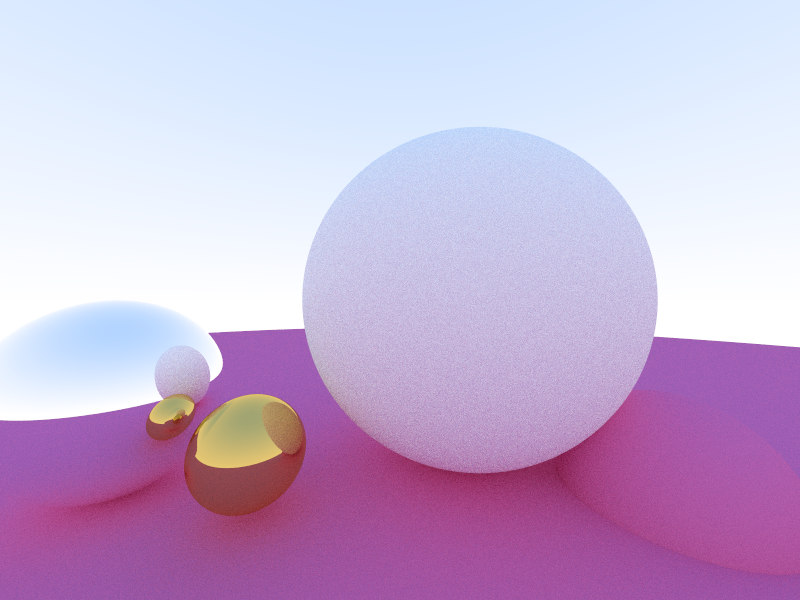
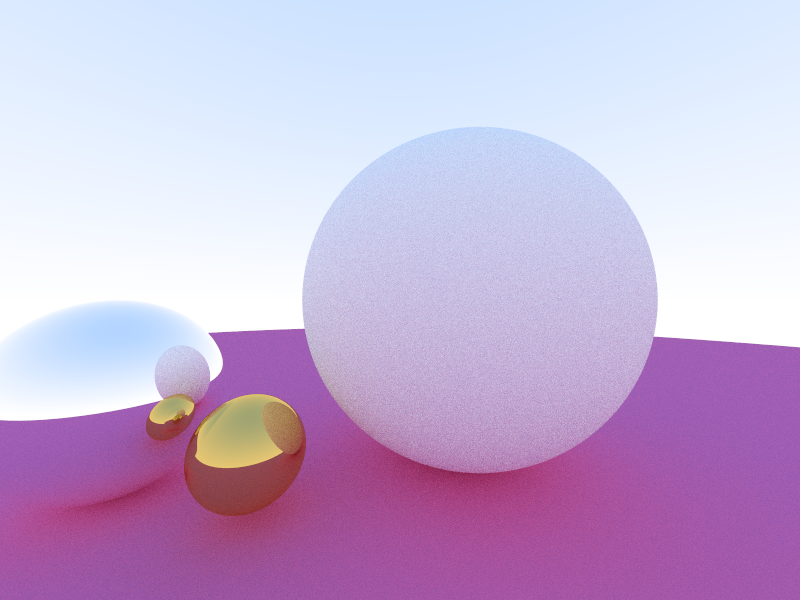
added multithreading

Changed region(s): [[0.625, 0.66, 0.8125, 0.9], [0.875, 0.93, 1.0, 0.96], [0.8125, 0.9, 0.875, 0.93]]

diff --git a/src/main.rs b/src/main.rs
@@ -1,10 +1,15 @@
-use material::{Lambertian, Metalic};
+use std::sync::Arc;
+use std::time::Instant;
+
+use material::{Lambertian, Metalic, Material};
 use rand::prelude::*;
 
 use cgmath::{Vector3, Vector2, Point3, InnerSpace, vec3, EuclideanSpace, Zero, vec2};
 use hittable::{Sphere, HittableList};
 use image::{ RgbImage, ImageBuffer, Rgb };
 use ray::Ray;
+use rayon::prelude::IntoParallelIterator;
+use rayon::prelude::*;
 use types::Float;
 
 mod types;
@@ -22,28 +27,37 @@ const MAX_BOUNCES: usize = 50;
 fn main() {
     // let img: RgbImage = ImageBuffer::new(WIDTH, HEIGHT);
     
-    let white_base = Lambertian::new((1.0, 1.0, 1.0));
-    let red_base = Lambertian::new((0.8, 0.2, 0.5));
+    let mut vector: Vec<Arc<dyn Material + Send + Sync>> = Vec::new();
     
-    let metal = Metalic::new((1.0, 1.0, 1.0));
-    let metal_gold = Metalic::new((0.8, 0.6, 0.2));
+    let white_base = Arc::new(Lambertian::new((1.0, 1.0, 1.0)));
+    vector.push(white_base);
+    let red_base = Arc::new(Lambertian::new((0.8, 0.2, 0.5)));
+    vector.push(red_base);
+    
+    let metal = Arc::new(Metalic::new((1.0, 1.0, 1.0)));
+    vector.push(metal);
+    let metal_gold = Arc::new(Metalic::new((0.8, 0.6, 0.2)));
+    vector.push(metal_gold);
     
     let mut list = HittableList::new();
-    list.add(Sphere::new((0.2, 0.0, -1.0), 0.5, &white_base));
-    list.add(Sphere::new((-0.75, -0.25, -0.8), 0.25, &metal));
-    list.add(Sphere::new((-0.35, -0.35, -0.7), 0.125, &metal_gold));
-    list.add(Sphere::new((0.7, -0.5, -0.8), 0.25, &red_base));
+    list.add(Arc::new(Sphere::new((0.2, 0.0, -1.0), 0.5, &vector[0])));
+    list.add(Arc::new(Sphere::new((-0.75, -0.25, -0.8), 0.25, &vector[2])));
+    list.add(Arc::new(Sphere::new((-0.35, -0.35, -0.7), 0.125, &vector[3])));
+    // list.add(Sphere::new((0.7, -0.5, -0.8), 0.25, &red_base));
 
     // ground
-    list.add(Sphere::new((0.0, -100.5, -1.0), 100.0, &red_base));
+    list.add(Arc::new(Sphere::new((0.0, -100.5, -1.0), 100.0, &vector[1])));
 
-    
+    let start = Instant::now();
     let mut rng = rand::rngs::SmallRng::from_entropy(); // rand::thread_rng();
     
-    let img: RgbImage = ImageBuffer::from_fn(WIDTH, HEIGHT, |x, y| {
+    let pixels: Vec<Rgb<u8>> = (0..(WIDTH * HEIGHT)).into_par_iter().map(|idx| {
+        let x = (idx % WIDTH) as Float;
+        let y = (idx / WIDTH) as Float;
         let mut color = Vector3::zero();
         for _i in 0..SAMPELS_PER_PIXEL {
-            let (x, y) = ((x as Float + rng.gen::<Float>()) / WIDTH as Float, (y as Float + rng.gen::<Float>()) / HEIGHT as Float);
+            let mut rng = rand::thread_rng();
+            let (x, y) = ((x + rng.gen::<Float>()) / WIDTH as Float, (y + rng.gen::<Float>()) / HEIGHT as Float);
             let mut uv = (Vector2::new(x, y)) * 2.0 - Vector2::new(1.0, 1.0);
             uv.x *= ASPECT;
             uv.y *= -1.0;
@@ -52,9 +66,29 @@ fn main() {
             color += res;
         }
         to_color(color, SAMPELS_PER_PIXEL)
-    });
+    }).collect();
+    
+    println!("main render done at {}ms", start.elapsed().as_millis());
+    
+    let img: RgbImage = ImageBuffer::from_fn(WIDTH, HEIGHT, |x, y| pixels[(x + y * WIDTH) as usize]);
+    
+    // let img: RgbImage = ImageBuffer::from_fn(WIDTH, HEIGHT, |x, y| {
+    //     let mut color = Vector3::zero();
+    //     for _i in 0..SAMPELS_PER_PIXEL {
+    //         let (x, y) = ((x as Float + rng.gen::<Float>()) / WIDTH as Float, (y as Float + rng.gen::<Float>()) / HEIGHT as Float);
+    //         let mut uv = (Vector2::new(x, y)) * 2.0 - Vector2::new(1.0, 1.0);
+    //         uv.x *= ASPECT;
+    //         uv.y *= -1.0;
+
+    //         let res = pixel_color(uv, &list);
+    //         color += res;
+    //     }
+    //     to_color(color, SAMPELS_PER_PIXEL)
+    // });
         
+    println!("copy done at {}ms", start.elapsed().as_millis());
     img.save("render.png").expect("couldnt save image");
+    println!("save done at {}ms", start.elapsed().as_millis());
 }
 
 fn to_color(color: Vector3<Float>, spp: usize) -> Rgb<u8> {

diff --git a/src/hittable.rs b/src/hittable.rs
@@ -1,4 +1,5 @@
 use std::ops::RangeInclusive;
+use std::sync::Arc;
 
 use cgmath::{Point3, Vector3, InnerSpace};
 
@@ -6,10 +7,10 @@ use crate::material::Material;
 use crate::ray::Ray;
 use crate::types::Float;
 
-pub struct HitRecord<'a> {
+pub struct HitRecord {
     pub point: Point3<Float>,
     pub normal: Vector3<Float>,
-    pub material: &'a dyn Material,
+    pub material: Arc<dyn Material + Send + Sync>,
     pub front_face: bool,
     pub t: Float,
 }
@@ -18,23 +19,23 @@ pub trait Hittable {
     fn hit(&self, ray: &Ray, t_range: RangeInclusive<Float>) -> Option<HitRecord>;
 }
 
-pub struct Sphere<'a> {
+pub struct Sphere {
     pub center: Point3<Float>,
     pub radius: Float,
-    pub material: &'a dyn Material,
+    pub material: Arc<dyn Material + Sync + Send>,
 }
 
-impl<'a> Sphere<'a> {
-    pub fn new(center: impl Into<Point3<Float>>, radius: Float, material: &'a dyn Material) -> Self {
+impl Sphere {
+    pub fn new(center: impl Into<Point3<Float>>, radius: Float, material: &Arc<dyn Material + Send + Sync>) -> Self {
         Self {
             center: center.into(),
             radius,
-            material,
+            material: Arc::clone(material),
         }
     }
 }
 
-impl<'a> Hittable for Sphere<'a> {
+impl Hittable for Sphere {
     fn hit(&self, ray: &Ray, t_range: RangeInclusive<Float>) -> Option<HitRecord> {
         let oc = ray.origin - self.center;
         let a = ray.direction.magnitude2();
@@ -59,7 +60,7 @@ impl<'a> Hittable for Sphere<'a> {
                 t: root,
                 point,
                 normal: if front_face { normal } else { -normal },
-                material: self.material,
+                material: Arc::clone(&self.material),
                 front_face,
             })
         }
@@ -67,17 +68,17 @@ impl<'a> Hittable for Sphere<'a> {
 }
 
 
-pub struct HittableList<'a> {
-    objects: Vec<Box<dyn Hittable + 'a>>,
+pub struct HittableList {
+    objects: Vec<Arc<dyn Hittable + Sync + Send>>,
 }
 
-impl<'a> HittableList<'a> {
+impl HittableList {
     pub fn new() -> Self {
         Self { objects: Vec::new() }
     }
     
-    pub fn add<T: Hittable + 'a>(&mut self, obj: T) {
-        self.objects.push(Box::new(obj));
+    pub fn add(&mut self, obj: Arc<dyn Hittable + Sync + Send>) {
+        self.objects.push(obj);
     }
     
     pub fn hit(&self, ray: &Ray, t_range: RangeInclusive<Float>) -> Option<HitRecord> {
